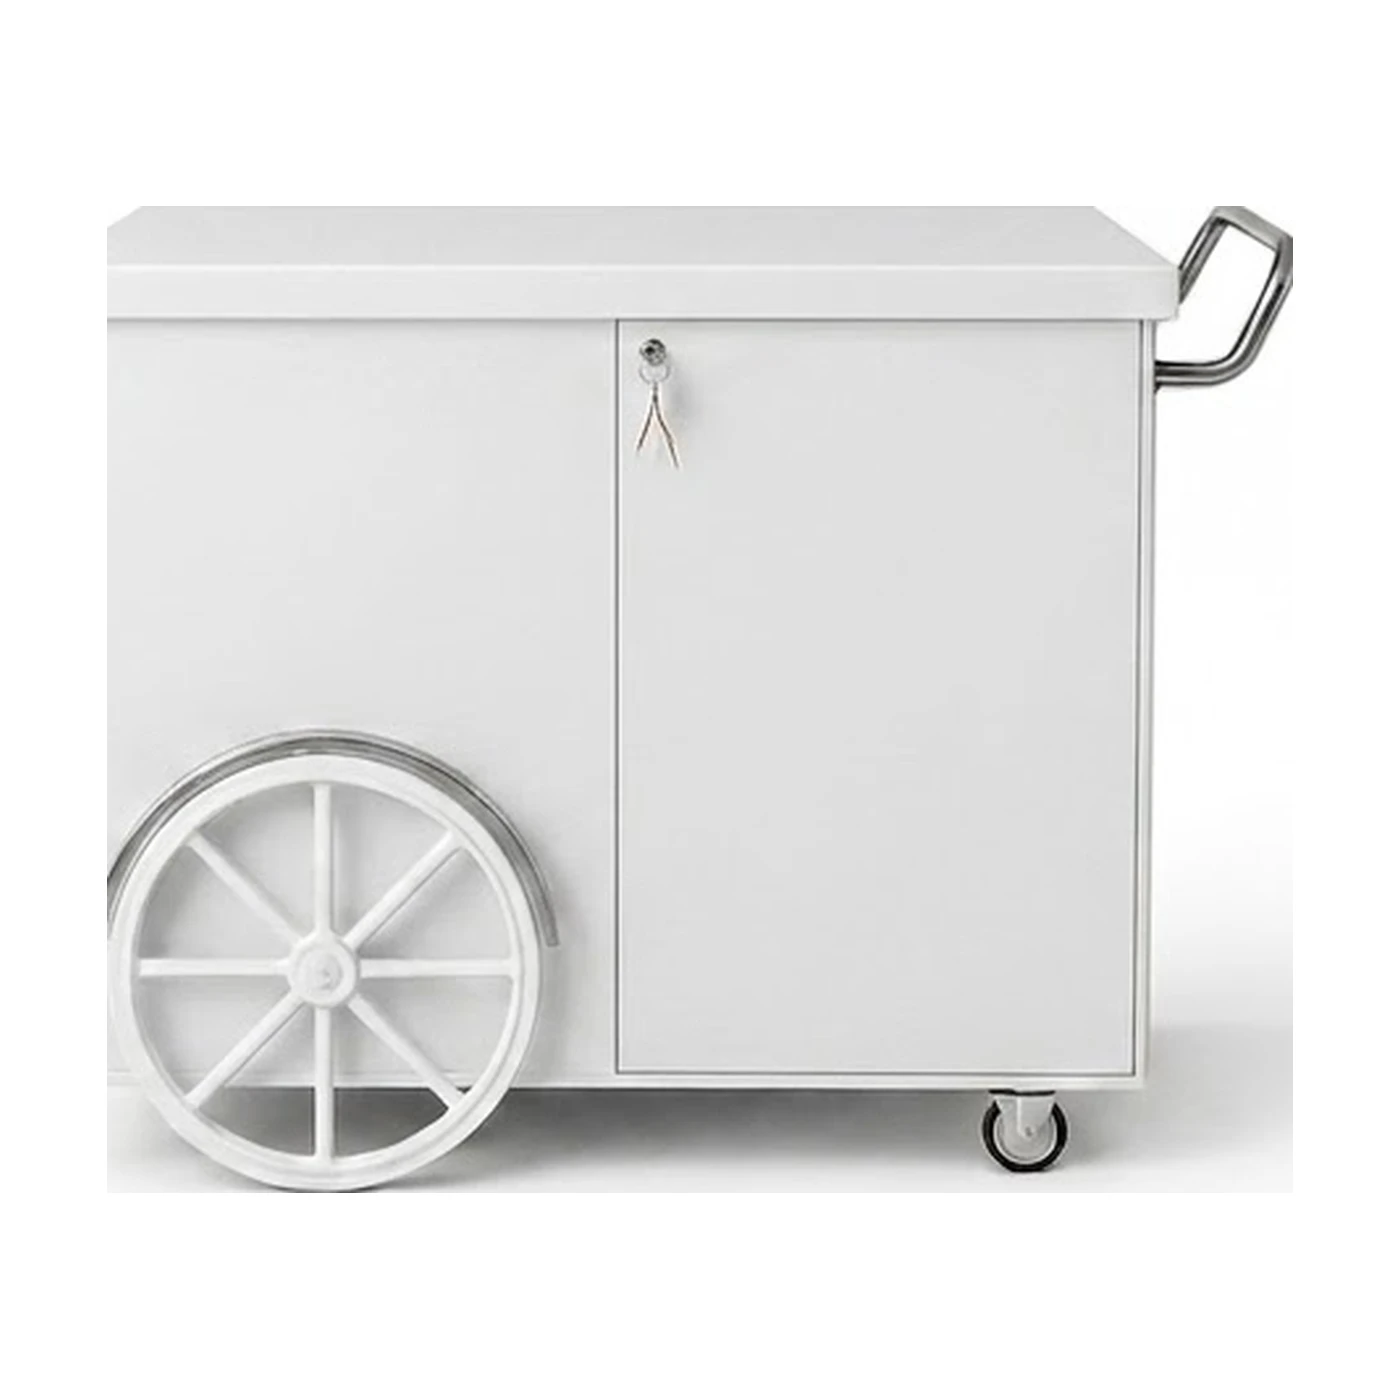
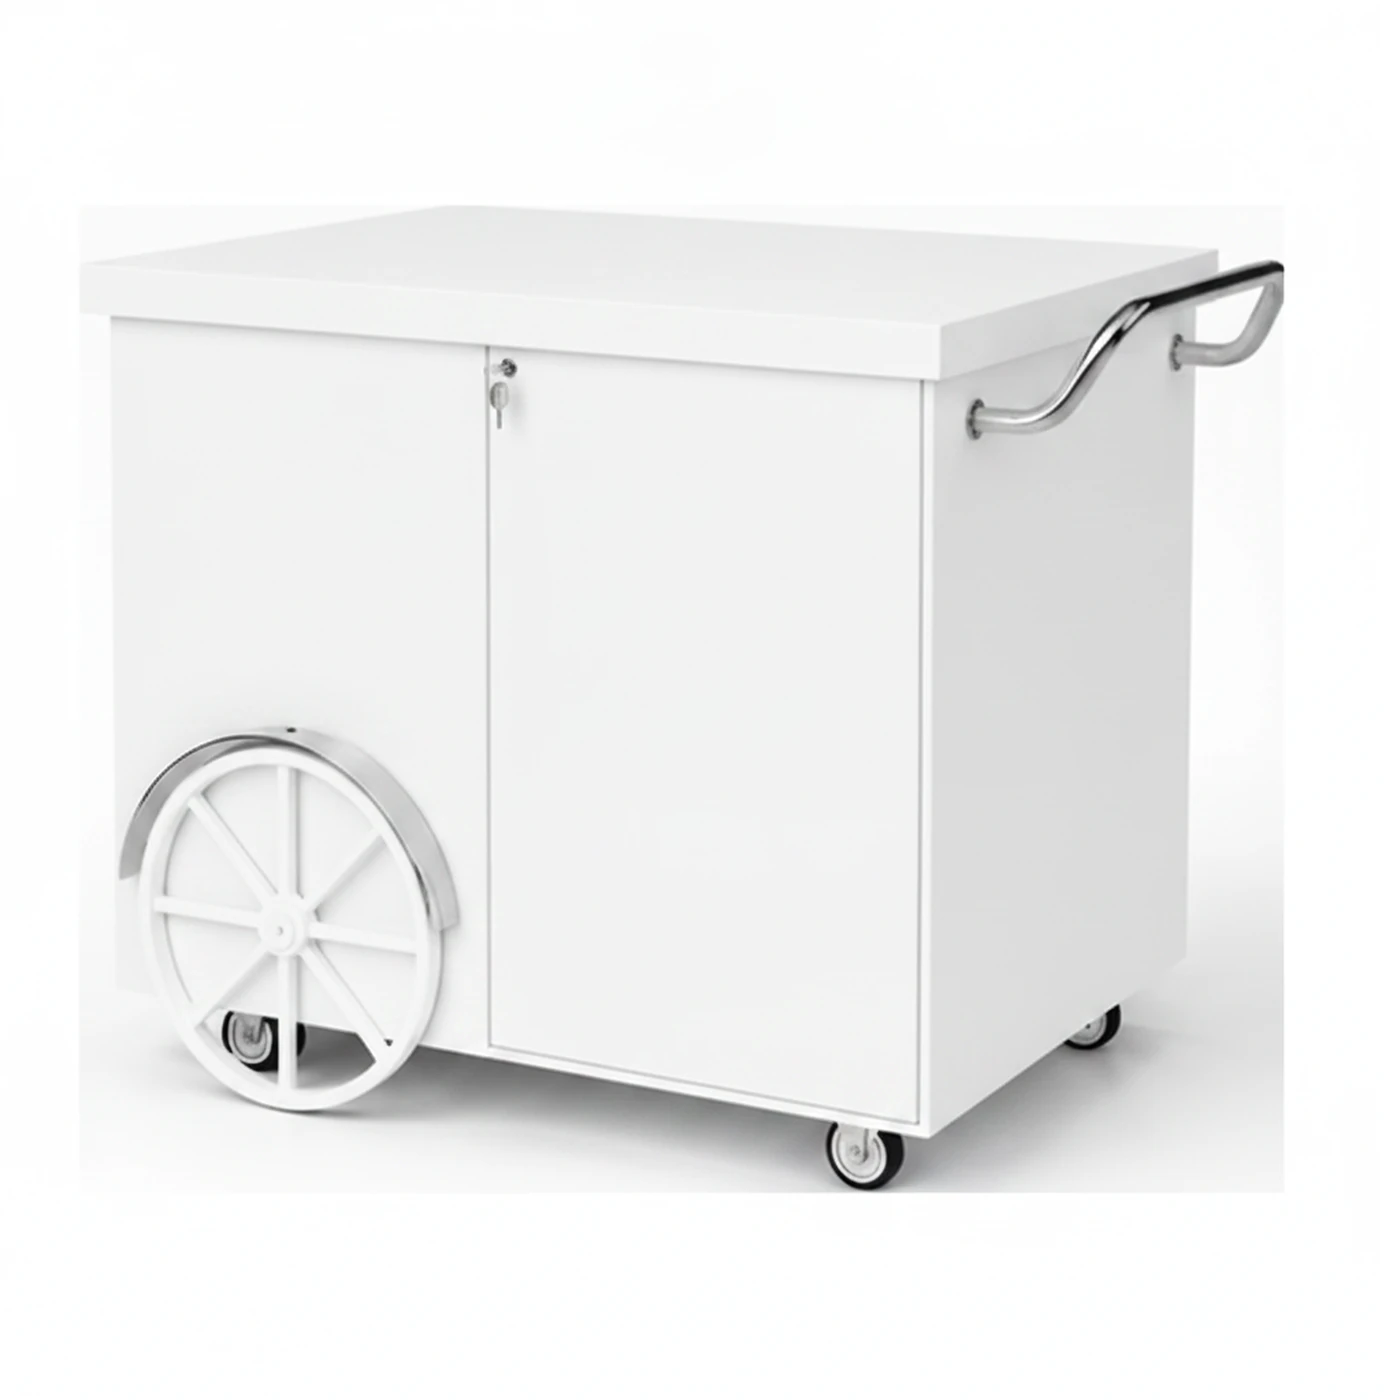
100-krom-tutamacli beyaz tentesiz: kadraj duzeltme (siyahtan yeniden uretim)
Sorun: krom beyaz native kadraji tutarsizdi (kare-basi farkli olcek, bey5 kadraj disi).
Cozum: siyah (dogru kadraj+sira) -> Gemini black->white recolor -> obje bbox siyaha
hizalandi (scale+translate). Logo koyu-on-white; plain panellere logo eklenmez (anti-hall).
Tekersiz = yeni tekerlekli beyazdan dewheel (tutarli). Beyaz artik siyahla birebir
(kadraj+aci+sira). Arac: beyaz_regen.py. pirinc beyaz zaten uyumluydu, dokunulmadi.

diff --git a/tools/recolor/beyaz_regen.py b/tools/recolor/beyaz_regen.py
@@ -1,0 +1,114 @@
+#!/usr/bin/env python3
+"""100-krom-tutamacli beyaz tentesiz'i SIYAH'tan Gemini ile yeniden uretir + siyah kadrajina hizalar.
+
+Sebep: krom beyaz native kadraji tutarsizdi (kare-basi farkli olcek, biri kadraj disi).
+Yontem: siyah (dogru kadraj+sira) -> Gemini black->white recolor -> obje bbox'ini siyaha tam
+hizala (scale+translate). Cikti beyaz, kadraj+aci+sira siyahla birebir. Logo koyu-on-white.
+tentesiz(tekerlekli) + tekeryok(tekersiz) 7'ser kare. Cikti staging (QA icin).
+"""
+import os, sys, base64, json, time, urllib.request, urllib.error
+from concurrent.futures import ThreadPoolExecutor, as_completed
+from PIL import Image
+import numpy as np
+
+ROOT = os.path.abspath(os.path.join(os.path.dirname(__file__), "..", ".."))
+V2 = os.path.join(ROOT, "public", "renders", "v2")
+CFG = "100-krom-tutamacli"
+OUT = os.path.join(os.path.dirname(__file__), "_beyaz_regen")
+MODEL = "gemini-2.5-flash-image"
+
+def key():
+    p = os.path.join(ROOT, "..", "..", "_knowledge", "credentials", "master.env")
+    for ln in open(p, encoding="utf-8"):
+        if ln.startswith("GEMINI_API_KEY="):
+            return ln.split("=", 1)[1].strip()
+    raise SystemExit("GEMINI_API_KEY yok")
+KEY = key()
+
+PROMPT = (
+    "You are editing a product studio photo of a matte BLACK mobile serving cart (with a chrome "
+    "push handle) on a plain white background. TASK: recolor ONLY the cart's body/cabinet panels "
+    "and the counter TOP surface from black to clean matte WHITE (like a white-painted wood cabinet). "
+    "Keep EVERYTHING else 100% identical and in the exact same position/scale/framing: the chrome "
+    "metal push handle, the white-and-chrome spoked decorative wheel, the small corner swivel casters, "
+    "the shadows, and the composition. LOGO RULE: IF (and only if) the input already shows a RUMICARTS "
+    "logo/text on a body panel, keep it in the SAME place and make it DARK grey/black so it stays "
+    "readable on the now-white body. IF a panel is plain black with NO logo (e.g. back or side panels, "
+    "closed doors), keep it PLAIN WHITE with NO text — do NOT add, invent, draw, or copy any logo/text "
+    "onto a plain panel. Do NOT change the cart shape, angle, or framing — only the body color from "
+    "black to white."
+)
+
+def call_gemini(src_bytes, ptext, tries=5):
+    url = f"https://generativelanguage.googleapis.com/v1beta/models/{MODEL}:generateContent?key={KEY}"
+    body = json.dumps({"contents": [{"parts": [
+        {"text": ptext},
+        {"inlineData": {"mimeType": "image/webp", "data": base64.b64encode(src_bytes).decode()}},
+    ]}]}).encode()
+    last = ""
+    for a in range(1, tries + 1):
+        try:
+            req = urllib.request.Request(url, data=body, headers={"content-type": "application/json"})
+            with urllib.request.urlopen(req, timeout=120) as r:
+                j = json.load(r)
+            for p in j.get("candidates", [{}])[0].get("content", {}).get("parts", []):
+                d = p.get("inlineData", {}).get("data")
+                if d:
+                    return base64.b64decode(d)
+            last = "gorsel donmedi"
+        except urllib.error.HTTPError as e:
+            last = f"HTTP {e.code} {e.read()[:160].decode(errors='ignore')}"
+            if e.code not in (429, 500, 502, 503, 504):
+                break
+        except Exception as e:
+            last = str(e)
+        time.sleep(a * 2.5)
+    raise RuntimeError(last)
+
+def _bbox(a, thr):
+    m = a.min(2) < thr
+    ys, xs = np.where(m)
+    return (int(xs.min()), int(xs.max()), int(ys.min()), int(ys.max()))
+
+def align(g, siyah_rgb):
+    """beyaz Gemini ciktisinin obje bbox'ini siyah referansa tam hizala (scale+translate)."""
+    sb = _bbox(siyah_rgb, 200)
+    gb = _bbox(np.array(g), 235)
+    sw, sh = sb[1]-sb[0], sb[3]-sb[2]
+    gw, gh = gb[1]-gb[0], gb[3]-gb[2]
+    s = min(sw/gw, sh/gh)
+    ns = max(1, round(1400*s))
+    gs = g.resize((ns, ns), Image.LANCZOS)
+    gb2 = _bbox(np.array(gs), 235)
+    canvas = Image.new("RGB", (1400, 1400), (255, 255, 255))
+    canvas.paste(gs, (round(sb[0]-gb2[0]), round(sb[2]-gb2[2])))
+    return canvas, s
+
+def one(tente_sub, fr):
+    # tente_sub: "" (tekerlekli) veya "tekeryok"
+    sdir = os.path.join(V2, CFG, "siyah", "tentesiz", tente_sub) if tente_sub else os.path.join(V2, CFG, "siyah", "tentesiz")
+    src = os.path.join(sdir, f"{fr:02d}.webp")
+    odir = os.path.join(OUT, tente_sub or "root")
+    os.makedirs(odir, exist_ok=True)
+    try:
+        siyah = np.array(Image.open(src).convert("RGB"))
+        raw = call_gemini(open(src, "rb").read(), PROMPT)
+        g = Image.open(__import__("io").BytesIO(raw)).convert("RGB").resize((1400, 1400), Image.LANCZOS)
+        aligned, s = align(g, siyah)
+        aligned.save(os.path.join(odir, f"{fr:02d}.webp"), "WEBP", quality=90, method=6)
+        return (tente_sub or "root", fr, f"OK s={s:.3f}")
+    except Exception as e:
+        return (tente_sub or "root", fr, f"HATA {str(e)[:80]}")
+
+def main():
+    frames = [int(x) for x in sys.argv[1].split(",")] if len(sys.argv) > 1 else list(range(1, 8))
+    jobs = [(t, f) for t in ["", "tekeryok"] for f in frames]
+    print(f"{len(jobs)} is: {CFG} beyaz (siyahtan recolor+hizala)")
+    with ThreadPoolExecutor(max_workers=4) as ex:
+        futs = {ex.submit(one, t, f): (t, f) for t, f in jobs}
+        for fut in as_completed(futs):
+            sub, fr, st = fut.result()
+            print(f"  {sub}/{fr:02d}: {st}")
+
+if __name__ == "__main__":
+    main()
